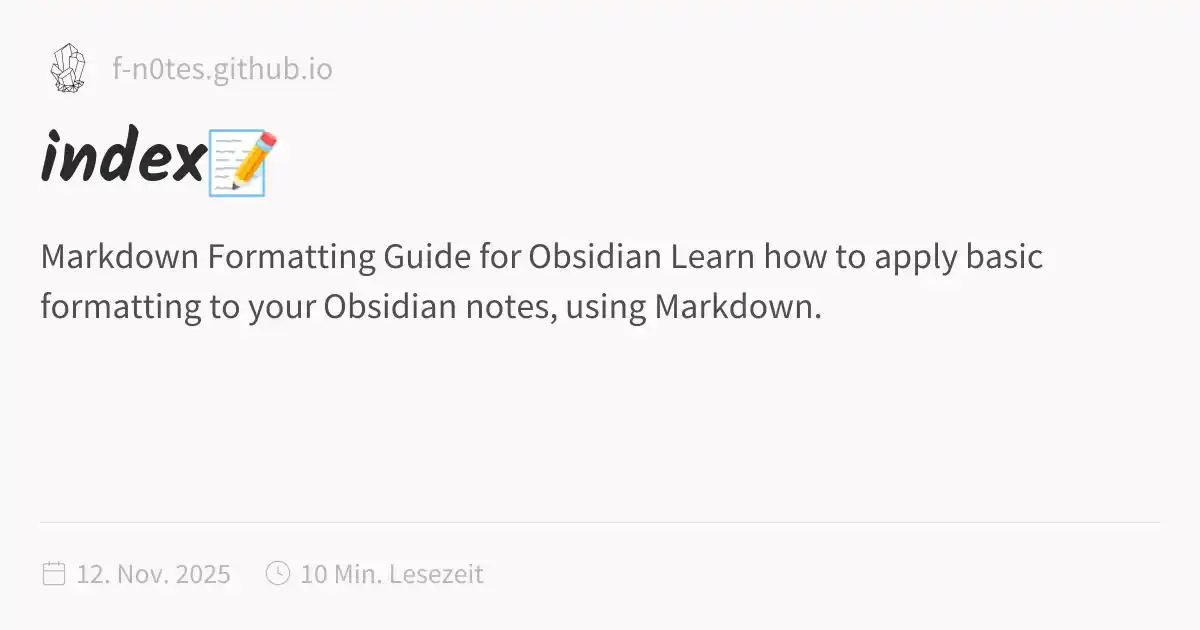
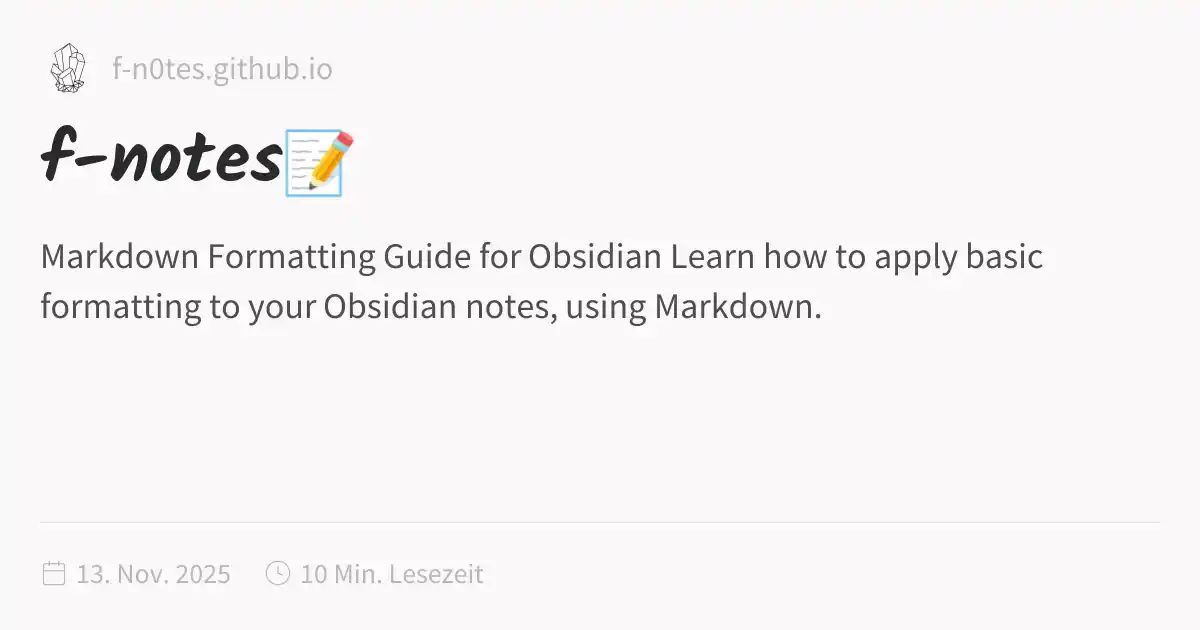
deploy: c2a154487511fe27c8d48221b87791d27e890886

Changed region(s): [[0.0308, 0.181, 0.3083, 0.3317]]

diff --git a/index.html b/index.html
@@ -1,5 +1,5 @@
 <!DOCTYPE html>
-<html lang="de" dir="ltr"><head><title>index📝</title><meta charset="utf-8"/><link rel="preconnect" href="https://fonts.googleapis.com"/><link rel="preconnect" href="https://fonts.gstatic.com"/><link rel="stylesheet" href="https://fonts.googleapis.com/css2?family=Kalam:wght@400;700&amp;family=Source Sans Pro:ital,wght@0,400;0,600;1,400;1,600&amp;family=IBM Plex Mono:wght@400;600&amp;display=swap"/><link rel="preconnect" href="https://cdnjs.cloudflare.com" crossorigin="anonymous"/><meta name="viewport" content="width=device-width, initial-scale=1.0"/><meta name="og:site_name" content="f_notes"/><meta property="og:title" content="index📝"/><meta property="og:type" content="website"/><meta name="twitter:card" content="summary_large_image"/><meta name="twitter:title" content="index📝"/><meta name="twitter:description" content="Markdown Formatting Guide for Obsidian Learn how to apply basic formatting to your Obsidian notes, using Markdown."/><meta property="og:description" content="Markdown Formatting Guide for Obsidian Learn how to apply basic formatting to your Obsidian notes, using Markdown."/><meta property="og:image:alt" content="Markdown Formatting Guide for Obsidian Learn how to apply basic formatting to your Obsidian notes, using Markdown."/><meta property="twitter:domain" content="f-n0tes.github.io"/><meta property="og:url" content="https://f-n0tes.github.io/index"/><meta property="twitter:url" content="https://f-n0tes.github.io/index"/><link rel="icon" href="./static/icon.png"/><meta name="description" content="Markdown Formatting Guide for Obsidian Learn how to apply basic formatting to your Obsidian notes, using Markdown."/><meta name="generator" content="Quartz"/><link href="./index.css" rel="stylesheet" type="text/css" spa-preserve/><style>.expand-button {
+<html lang="de" dir="ltr"><head><title>f-notes📝</title><meta charset="utf-8"/><link rel="preconnect" href="https://fonts.googleapis.com"/><link rel="preconnect" href="https://fonts.gstatic.com"/><link rel="stylesheet" href="https://fonts.googleapis.com/css2?family=Kalam:wght@400;700&amp;family=Source Sans Pro:ital,wght@0,400;0,600;1,400;1,600&amp;family=IBM Plex Mono:wght@400;600&amp;display=swap"/><link rel="preconnect" href="https://cdnjs.cloudflare.com" crossorigin="anonymous"/><meta name="viewport" content="width=device-width, initial-scale=1.0"/><meta name="og:site_name" content="f_notes"/><meta property="og:title" content="f-notes📝"/><meta property="og:type" content="website"/><meta name="twitter:card" content="summary_large_image"/><meta name="twitter:title" content="f-notes📝"/><meta name="twitter:description" content="Markdown Formatting Guide for Obsidian Learn how to apply basic formatting to your Obsidian notes, using Markdown."/><meta property="og:description" content="Markdown Formatting Guide for Obsidian Learn how to apply basic formatting to your Obsidian notes, using Markdown."/><meta property="og:image:alt" content="Markdown Formatting Guide for Obsidian Learn how to apply basic formatting to your Obsidian notes, using Markdown."/><meta property="twitter:domain" content="f-n0tes.github.io"/><meta property="og:url" content="https://f-n0tes.github.io/index"/><meta property="twitter:url" content="https://f-n0tes.github.io/index"/><link rel="icon" href="./static/icon.png"/><meta name="description" content="Markdown Formatting Guide for Obsidian Learn how to apply basic formatting to your Obsidian notes, using Markdown."/><meta name="generator" content="Quartz"/><link href="./index.css" rel="stylesheet" type="text/css" spa-preserve/><style>.expand-button {
   position: absolute;
   display: flex;
   float: right;
@@ -116,7 +116,7 @@ pre:hover > .expand-button {
   padding: 0 12px;
   font-size: 14px;
 }
[2 lines of base64/hex data omitted]
 <p>Learn how to apply basic formatting to your Obsidian notes, using <a href="https://daringfireball.net/projects/markdown/" class="external">Markdown<svg aria-hidden="true" class="external-icon" style="max-width:0.8em;max-height:0.8em;" viewBox="0 0 512 512"><path d="M320 0H288V64h32 82.7L201.4 265.4 178.7 288 224 333.3l22.6-22.6L448 109.3V192v32h64V192 32 0H480 320zM32 32H0V64 480v32H32 456h32V480 352 320H424v32 96H64V96h96 32V32H160 32z"></path></svg></a>. Import this as a note into your Obsidian Vault to view it and to test new themes. Certain community plugins are required for a few features.</p>
 <hr/>
 <p>Basic Formatting Syntax</p>

diff --git a/Literatur/index.html b/Literatur/index.html
@@ -116,6 +116,6 @@ pre:hover > .expand-button {
   padding: 0 12px;
   font-size: 14px;
 }
[2 lines of base64/hex data omitted]
 </script><script type="module">function f(i,e){if(!i)return;function r(o){o.target===this&&(o.preventDefault(),o.stopPropagation(),e())}function t(o){o.key.startsWith("Esc")&&(o.preventDefault(),e())}i?.addEventListener("click",r),window.addCleanup(()=>i?.removeEventListener("click",r)),document.addEventListener("keydown",t),window.addCleanup(()=>document.removeEventListener("keydown",t))}function y(i){for(;i.firstChild;)i.removeChild(i.firstChild)}var h=class{constructor(e,r){this.container=e;this.content=r;this.setupEventListeners(),this.setupNavigationControls(),this.resetTransform()}isDragging=!1;startPan={x:0,y:0};currentPan={x:0,y:0};scale=1;MIN_SCALE=.5;MAX_SCALE=3;cleanups=[];setupEventListeners(){let e=this.onMouseDown.bind(this),r=this.onMouseMove.bind(this),t=this.onMouseUp.bind(this),o=this.resetTransform.bind(this);this.container.addEventListener("mousedown",e),document.addEventListener("mousemove",r),document.addEventListener("mouseup",t),window.addEventListener("resize",o),this.cleanups.push(()=>this.container.removeEventListener("mousedown",e),()=>document.removeEventListener("mousemove",r),()=>document.removeEventListener("mouseup",t),()=>window.removeEventListener("resize",o))}cleanup(){for(let e of this.cleanups)e()}setupNavigationControls(){let e=document.createElement("div");e.className="mermaid-controls";let r=this.createButton("+",()=>this.zoom(.1)),t=this.createButton("-",()=>this.zoom(-.1)),o=this.createButton("Reset",()=>this.resetTransform());e.appendChild(t),e.appendChild(o),e.appendChild(r),this.container.appendChild(e)}createButton(e,r){let t=document.createElement("button");return t.textContent=e,t.className="mermaid-control-button",t.addEventListener("click",r),window.addCleanup(()=>t.removeEventListener("click",r)),t}onMouseDown(e){e.button===0&&(this.isDragging=!0,this.startPan={x:e.clientX-this.currentPan.x,y:e.clientY-this.currentPan.y},this.container.style.cursor="grabbing")}onMouseMove(e){this.isDragging&&(e.preventDefault(),this.currentPan={x:e.clientX-this.startPan.x,y:e.clientY-this.startPan.y},this.updateTransform())}onMouseUp(){this.isDragging=!1,this.container.style.cursor="grab"}zoom(e){let r=Math.min(Math.max(this.scale+e,this.MIN_SCALE),this.MAX_SCALE),t=this.content.getBoundingClientRect(),o=t.width/2,n=t.height/2,c=r-this.scale;this.currentPan.x-=o*c,this.currentPan.y-=n*c,this.scale=r,this.updateTransform()}updateTransform(){this.content.style.transform=`translate(${this.currentPan.x}px, ${this.currentPan.y}px) scale(${this.scale})`}resetTransform(){this.scale=1;let e=this.content.querySelector("svg");this.currentPan={x:e.getBoundingClientRect().width/2,y:e.getBoundingClientRect().height/2},this.updateTransform()}},C=["--secondary","--tertiary","--gray","--light","--lightgray","--highlight","--dark","--darkgray","--codeFont"],E;document.addEventListener("nav",async()=>{let e=document.querySelector(".center").querySelectorAll("code.mermaid");if(e.length===0)return;E||=await import("https://cdnjs.cloudflare.com/ajax/libs/mermaid/11.4.0/mermaid.esm.min.mjs");let r=E.default,t=new WeakMap;for(let n of e)t.set(n,n.innerText);async function o(){for(let s of e){s.removeAttribute("data-processed");let a=t.get(s);a&&(s.innerHTML=a)}let n=C.reduce((s,a)=>(s[a]=window.getComputedStyle(document.documentElement).getPropertyValue(a),s),{}),c=document.documentElement.getAttribute("saved-theme")==="dark";r.initialize({startOnLoad:!1,securityLevel:"loose",theme:c?"dark":"base",themeVariables:{fontFamily:n["--codeFont"],primaryColor:n["--light"],primaryTextColor:n["--darkgray"],primaryBorderColor:n["--tertiary"],lineColor:n["--darkgray"],secondaryColor:n["--secondary"],tertiaryColor:n["--tertiary"],clusterBkg:n["--light"],edgeLabelBackground:n["--highlight"]}}),await r.run({nodes:e})}await o(),document.addEventListener("themechange",o),window.addCleanup(()=>document.removeEventListener("themechange",o));for(let n=0;n<e.length;n++){let v=function(){let g=l.querySelector("#mermaid-space"),m=l.querySelector(".mermaid-content");if(!m)return;y(m);let w=c.querySelector("svg").cloneNode(!0);m.appendChild(w),l.classList.add("active"),g.style.cursor="grab",u=new h(g,m)},M=function(){l.classList.remove("active"),u?.cleanup(),u=null},c=e[n],s=c.parentElement,a=s.querySelector(".clipboard-button"),d=s.querySelector(".expand-button"),p=window.getComputedStyle(a),L=a.offsetWidth+parseFloat(p.marginLeft||"0")+parseFloat(p.marginRight||"0");d.style.right=`calc(${L}px + 0.3rem)`,s.prepend(d);let l=s.querySelector("#mermaid-container");if(!l)return;let u=null;d.addEventListener("click",v),f(l,M),window.addCleanup(()=>{u?.cleanup(),d.removeEventListener("click",v)})}});
 </script><script src="https://cdn.jsdelivr.net/npm/katex@0.16.11/dist/contrib/copy-tex.min.js" type="application/javascript"></script><script src="../postscript.js" type="module"></script></html>
